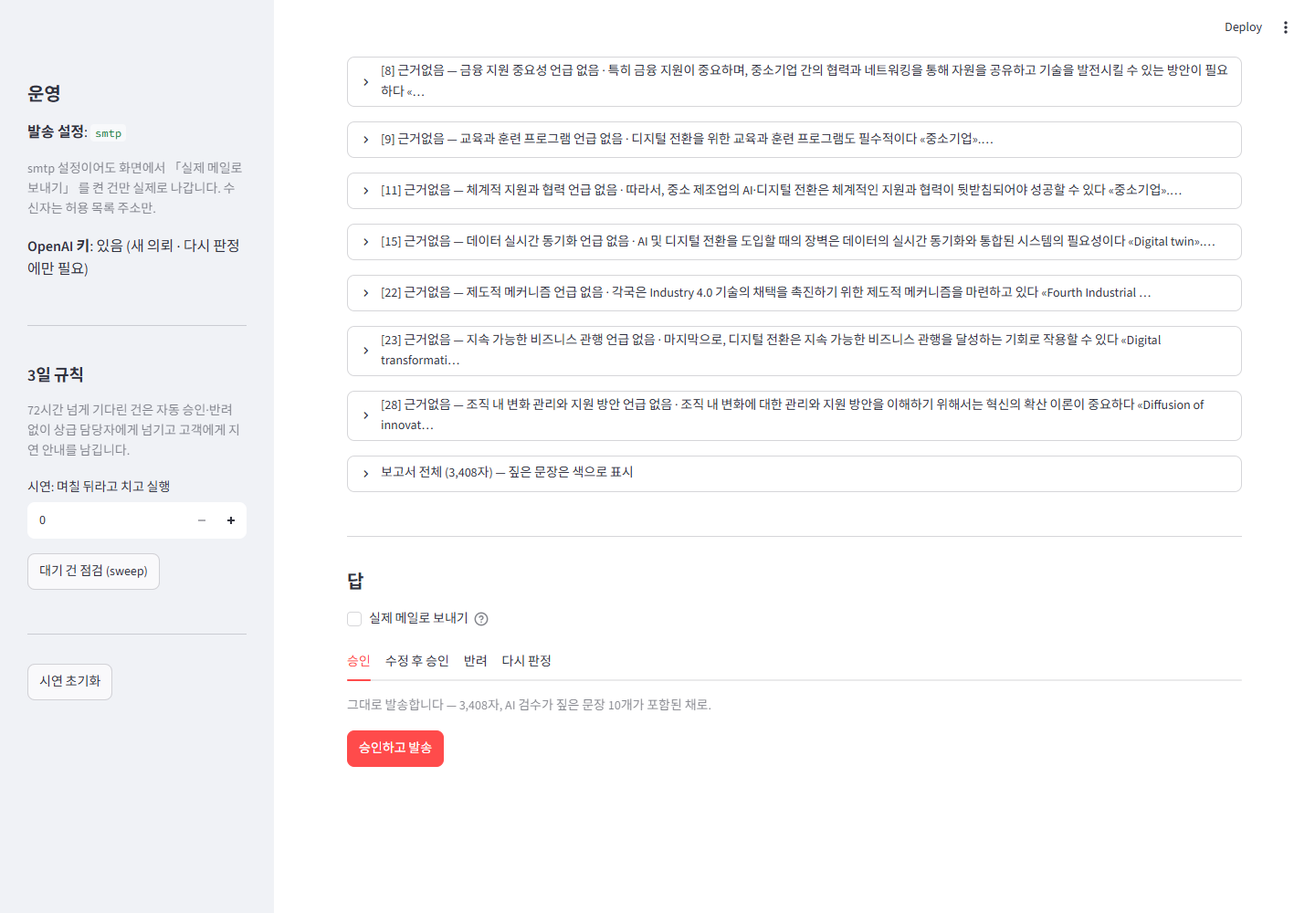
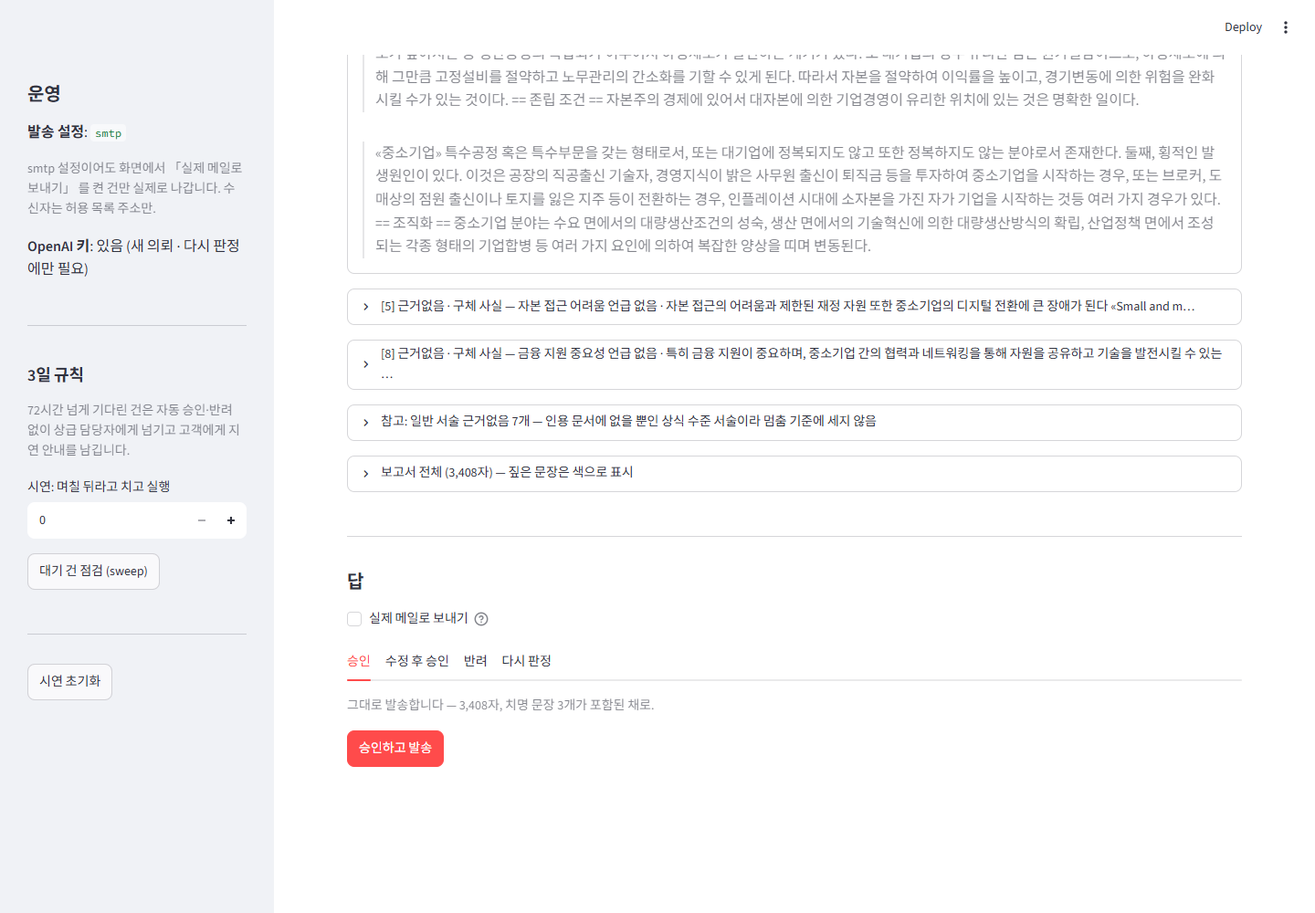
C8 v2: 치명 문장(구체 사실 근거없음·모순·대상착오) ≥ 1 — 개입률 88% → 65%
7단계 운영에서 짚힌 오류의 75% 가 구체 사실 없는 일반 서술이었고 담당자가 그런 건을 그대로 승인했다.
- criteria.치명 · C8 v2, 빼고 발송은 치명 문장만
- 화면: 멈춘 원인(치명) / 참고(일반 서술) 로 나눔, 기준 설명에 v1 → v2
- validate_criteria: v1 · v2 표, 7단계 승인 8건 대조 (docs/evidence/step7_approved.json)
- 캡처 갱신

Changed region(s): [[0.2812, 0.062, 0.9375, 0.279], [0.2812, 0.31, 0.9375, 0.465], [0.375, 0.744, 0.5312, 0.775]]

diff --git a/app.py b/app.py
@@ -25,7 +25,7 @@ st.set_page_config(page_title="보고서 발송 승인", layout="wide")
     "C2": ("인용 원문에 없는 숫자", "틀린 수치가 출처를 달고 고객에게 나가는 것"),
     "C3": ("지표 경보", "지어낸 제목 · 읽지 않은 문서를 인용하는 것"),
     "C6": ("국내 질문에 해외 근거", "해외 기준이 한국 기준처럼 읽히는 것"),
-    "C8": (f"AI 검수 오류 문장 {C.C8_문턱}개 이상", "인용 문서가 뒷받침하지 않는 주장 (가장 흔한 오류)"),
+    "C8": ("AI 검수 치명 문장 1개 이상", "고객이 옮겨 쓸 구체 사실(수치·기준·고유명사)이 근거 없이 · 틀리게 · 다른 대상의 것으로 나가는 것"),
 }
 판정색 = {"근거없음": "orange", "모순": "red", "대상착오": "violet"}
 
@@ -91,7 +91,8 @@ with 탭[0]:
     else:
         rows = [{"의뢰ID": v["의뢰ID"], "고객": v["고객"], "질문": v["질문"][:28] + "…",
                  "멈춘 이유": " · ".join(x.split(" ")[0] for x in v["멈춘 이유"]),
-                 "오류 문장": len(v["검수 오류 문장"]), "대기": _시간(v["대기시작"]),
+                 "치명 문장": sum(1 for x in v["검수 오류 문장"] if C.치명(x)),
+                 "참고": sum(1 for x in v["검수 오류 문장"] if not C.치명(x)), "대기": _시간(v["대기시작"]),
                  "재조사": v["재조사"], "이관": "⚠ 이관" if v["이관"] else ""} for v in 대기]
         st.dataframe(rows, hide_index=True)
         ids = [v["의뢰ID"] for v in 대기]
@@ -111,17 +112,28 @@ with 탭[0]:
         st.markdown("**멈춘 이유** " + "  ".join(f":orange-background[{_안전(x)}]" for x in v["멈춘 이유"]))
         st.info(f"**통과시키면** — {v['통과시키면']}")
 
-        bad = v["검수 오류 문장"]
-        st.markdown(f"##### AI 검수가 짚은 문장 {len(bad)}개")
-        st.caption("문장마다 인용한 원문 대목과 대조한 결과입니다. 대목에 없다고 곧 틀린 것은 아니지만, 고객에게 근거를 댈 수 없는 문장입니다.")
-        for x in bad:
+        bad = [x for x in v["검수 오류 문장"] if C.치명(x)]           # 멈춘 원인 (C8 v2)
+        참고 = [x for x in v["검수 오류 문장"] if not C.치명(x)]       # 구체 사실 없는 일반 서술 — 세지 않는다
+
+        def 문장칸(x):
             col = 판정색.get(x["판정"], "gray")
-            with st.expander(f"[{x['번호']}] {x['판정']} — {x['이유']}  ·  {x['문장'][:70]}…"):
+            with st.expander(f"[{x['번호']}] {x['판정']}{' · 구체 사실' if x.get('구체') else ''} — {x['이유']}  ·  "
+                             f"{x['문장'][:60]}…"):
                 st.markdown(f":{col}-background[{_안전(x['문장'])}]")
                 if not x["대목"]:
                     st.caption("(인용 없음)")
                 for d in x["대목"]:
                     st.markdown(f"> «{d['문서']}» {d['글']}")
+
+        st.markdown(f"##### AI 검수 — 치명 문장 {len(bad)}개")
+        st.caption("고객이 옮겨 쓸 구체 사실(수치·기준·고유명사·연도)이 인용 원문에 없거나, 원문과 다르거나(모순), "
+                   "질문과 다른 대상의 것(대상착오)인 문장. 펼치면 AI 가 대조한 원문 대목이 보입니다.")
+        for x in bad:
+            문장칸(x)
+        if 참고:
+            with st.expander(f"참고: 일반 서술 근거없음 {len(참고)}개 — 인용 문서에 없을 뿐인 상식 수준 서술이라 멈춤 기준에 세지 않음"):
+                for x in 참고:
+                    st.markdown(f"- [{x['번호']}] {_안전(x['문장'])} — :gray[{_안전(x['이유'])}]")
         other = [x for x in v["멈춘 이유"] if not x.startswith("C8")]
         if other:
             hits = C.전부재기(보고서)
@@ -156,13 +168,14 @@ with 탭[0]:
             st.rerun()
 
         with a1:
-            st.caption(f"그대로 발송합니다 — {v['보고서자수']:,}자, AI 검수가 짚은 문장 {len(bad)}개가 포함된 채로.")
+            st.caption(f"그대로 발송합니다 — {v['보고서자수']:,}자, 치명 문장 {len(bad)}개가 포함된 채로.")
             if st.button("승인하고 발송", type="primary", key="ok"):
                 보내기("approve")
         with a2:
-            방식 = st.radio("방식", ["AI 검수가 짚은 문장 빼고 발송", "직접 수정"], horizontal=True)
+            방식 = st.radio("방식", ["AI 검수 치명 문장 빼고 발송", "직접 수정"], horizontal=True)
             if 방식.startswith("AI"):
-                st.caption(f"{len(bad)}문장을 빼고 {len(빠진본):,}자로 발송합니다 (원본 {v['보고서자수']:,}자).")
+                st.caption(f"치명 문장 {len(bad)}개를 빼고 {len(빠진본):,}자로 발송합니다 (원본 {v['보고서자수']:,}자). "
+                           "일반 서술은 남깁니다.")
                 with st.expander("발송본 미리보기"):
                     st.markdown(빠진본)
                 if st.button("빼고 발송", type="primary", key="edit1"):
@@ -286,16 +299,22 @@ with 탭[3]:
     st.table([{"기준": f"{k} {기준설명[k][0]}", "막으려는 위험": 기준설명[k][1]} for k in C.켜진기준])
     st.markdown("""
 - **C2 · C3 · C6** 은 코드로 즉시 계산한다. 걸리면 거의 확실히 진짜 문제다 (4단계 검증에서 헛멈춤 ≈ 0) — 싸고 빠른 1차 관문.
-- **C8** 은 문장마다 인용 원문 대목과 대조하는 AI 검수(gpt-4o)다. 가장 흔한 오류인 '인용한 문서가 그 말을 하지 않는 문장' 은 이렇게 읽어야만 잡힌다.
+- **C8** 은 문장마다 인용 원문 대목과 대조하는 AI 검수(gpt-4o)다. 그중 **치명 문장** — 모순 · 대상착오, 또는 수치·기준·고유명사 같은
+  **구체 사실**의 근거없음 — 이 하나라도 있으면 멈춘다. 구체 사실이 없는 일반 서술의 근거없음은 참고로만 보여 주고 세지 않는다.
 - 검수에 실패하면(키 없음 · 한도 초과) 통과가 아니라 사람에게 보낸다.
 
-**검증 (4단계, 표본 150건 · 사람 판정 30건)**
-- 개입률 **88%** (150건 중 132건 멈춤, 18건 자동 발송) · 사람 판정 기준 놓침 **3/25** · 헛멈춤 3/5
-- C8 문턱은 3. 4 로 올리면 개입률 79% 로 내려가지만 놓침이 4/25 로 는다.
-- 놓침을 막는 쪽을 골랐다. 틀린 보고서가 고객에게 가면 되돌릴 수 없고, 헛멈춤은 검토 시간만 든다.
-- 개입률이 높은 이유는 기준이 아니라 **생성기(딥리서처)** 에 있다 — 판정한 고유 문장 2,801개 중 22.5% 가 근거없음·모순·대상착오였다. 그래서 개입률 대신 **건당 검토 시간**을 줄이는 쪽(짚은 문장부터 보여 주기 · 빼고 발송 버튼)으로 보완했다.
+**기준을 이렇게 고쳐 왔다**
 
-**자동으로 나가는 건은 왜 괜찮은가** — C2 · C3 · C6 에 걸리지 않고 AI 검수 오류 문장이 2개 이하인 보고서다 — 출처와 숫자가 원문과 맞고, 원문과 대조해 근거를 못 댄 문장이 한두 개뿐이다. 사람 판정 30건에서 이 조건을 통과한 건 중 사람이 멈췄어야 한 건은 3건이었다(놓침). 0 은 아니다 — 한계로 REPORT 에 적었다.
+| 판 | C8 | 표본 150건 개입률 | 근거 |
+|---|---|---:|---|
+| v1 | 근거없음·모순·대상착오 전부 ≥ 3 | 88% | 4단계 판정지(AI 검토 참고, 엄격) 기준 놓침 3/25 |
+| **v2 (지금)** | **치명 문장 ≥ 1** | **65%** | 7단계 운영: 짚힌 오류의 75% 가 일반 서술이었고 담당자가 그런 건을 9건 중 8건 그대로 승인 |
 
-자세한 표: `docs/evidence/step4_validation.md`
+- v1 로 운영하니 개입률 88% · 건당 약 4분 → 하루 150건이면 약 8.8시간. 짚힘이 너무 많아 승인이 빨라졌다(뒤 여섯 건은 7~25초) — 학습자료가 경고한 '헛멈춤이 많으면 버튼만 누른다' 를 실제로 겪었다.
+- v2 는 담당자의 운영 판단(일반 서술은 치명적이지 않다)과 결정 A(고객이 옮겨 쓸 사실은 놓치지 않는다)가 함께 성립하는 지점이다. 대가: 4단계의 엄격한 판정 기준으로는 놓침이 10/25 로 는다.
+- 개입률이 여전히 높은 이유는 기준이 아니라 **생성기(딥리서처)** 에 있다 — 판정한 고유 문장 2,801개 중 22.5% 가 근거없음·모순·대상착오였다.
+
+**자동으로 나가는 건은 왜 괜찮은가** — C2 · C3 · C6 에 걸리지 않고, 원문과 대조해 구체 사실이 모두 맞았으며, 근거를 못 댄 것은 일반 서술뿐인 보고서다. 고객이 그 보고서를 보고 옮겨 적을 수치·기준·이름은 모두 원문에 있다.
+
+자세한 표: `docs/evidence/step4_validation.md` · `docs/evidence/step7_results.md`
 """)

diff --git a/validate_criteria.py b/validate_criteria.py
@@ -122,20 +122,38 @@ def main():
     hs = [r for r in rows if r["run_id"] in human]
     code = lambda r: any(C.전부재기(r)[k] for k in ("C2", "C3", "C6"))
     n_stop = sum(human[r["run_id"]]["should_stop"] for r in hs)
-    L += ["", "## 4. C8 (AI 검수) 문턱 — 사람 판정 30건 기준", "",
+    L += ["", "## 4. C8 (AI 검수) — 사람 판정 30건 기준", "",
           f"사람 판정: 멈춤 {n_stop} · 통과 {len(hs) - n_stop}. 정답이 AI 판정이면 C8 이 자기 자신과 비교되므로(순환) "
-          "여기서는 사람 판정만 정답으로 쓴다. 사람 판정은 AI 검토 도구를 참고했다(AI 보조 사람 판정).", "",
-          "| 기준 (C2·C3·C6 과 함께) | 사람 기준 놓침 | 사람 기준 헛멈춤 | 표본 150건 개입률 |", "|---|---:|---:|---:|"]
-    for k in (1, 2, 3, 4, 5, 6, 8, 10):
-        stop = lambda r: code(r) or bool(C.C8_AI검수(r, k))
-        fn = sum(1 for r in hs if human[r["run_id"]]["should_stop"] and not stop(r))
-        fp = sum(1 for r in hs if not human[r["run_id"]]["should_stop"] and stop(r))
-        L.append(f"| C8 오류 ≥ {k}{' ← 채택' if k == C.C8_문턱 else ''} | {fn}/{n_stop} | {fp}/{len(hs) - n_stop} | "
-                 f"{100 * sum(1 for r in rows if stop(r)) / len(rows):.0f}% |")
+          "여기서는 사람 판정만 정답으로 쓴다. 사람 판정은 AI 검토 도구를 참고했다(AI 보조 사람 판정).", ""]
+    import judge as _J
+    승인8 = set(json.loads((J.G.ROOT / "docs" / "evidence" / "step7_approved.json").read_text(encoding="utf-8"))["run_ids"])         if (J.G.ROOT / "docs" / "evidence" / "step7_approved.json").exists() else set()
+
+    def 표(제목, 세기, ks, 채택):
+        out = [f"### {제목}", "", "| C8 (C2·C3·C6 과 함께) | 사람 기준 놓침 | 사람 기준 헛멈춤 | 표본 150건 개입률 | 7단계 그대로 승인한 8건 중 멈춤 |",
+               "|---|---:|---:|---:|---:|"]
+        for k in ks:
+            stop = lambda r: code(r) or r["검수"]["판정실패"] > 0 or 세기(r) >= k
+            fn = sum(1 for r in hs if human[r["run_id"]]["should_stop"] and not stop(r))
+            fp = sum(1 for r in hs if not human[r["run_id"]]["should_stop"] and stop(r))
+            ap = sum(1 for r in rows if r["run_id"] in 승인8 and stop(r))
+            out.append(f"| ≥ {k}{' ← ' + 채택 if 채택 and k == int(채택.split('=')[1]) else ''} | {fn}/{n_stop} | "
+                       f"{fp}/{len(hs) - n_stop} | {100 * sum(1 for r in rows if stop(r)) / len(rows):.0f}% | {ap}/{len(승인8)} |")
+        return out + [""]
+
+    전체 = lambda r: sum(1 for x in r["검수"]["문장"] if x["판정"] in _J.오류판정)
+    치명 = lambda r: sum(1 for x in r["검수"]["문장"] if C.치명(x))
+    L += 표("v1 — 근거없음·모순·대상착오 전부를 센다 (6단계까지)", 전체, (1, 2, 3, 4, 5, 6, 8, 10), "v1 채택 k=3")
+    L += ["7단계에서 v1 으로 운영해 보니 짚힌 오류 645문장 중 486(75%)이 구체 사실 없는 일반 서술의 근거없음이었고, "
+          "담당자는 그런 건을 9건 중 8건 그대로 승인했다('상식 수준에서 크게 벗어나지 않는다'). 그래서 치명 문장만 센다.", ""]
+    L += 표("v2 — 치명 문장만 센다: 모순 · 대상착오 · 구체 사실(수치·기준·고유명사·연도)의 근거없음 (지금)", 치명, (1, 2, 3),
+           "v2 채택 k=1")
     fin = [r for r in rows if C.판정(r)]
-    L += ["", f"**최종 기준 {' · '.join(C.켜진기준)}** — 표본 150건 중 {len(fin)}건 멈춤 (개입률 {100*len(fin)/len(rows):.0f}%), "
-          f"자동 발송 {len(rows) - len(fin)}건.", "",
-          "- 놓침을 막는 쪽을 골랐다(4단계 결정 A): 틀린 보고서가 고객에게 가면 되돌릴 수 없고, 헛멈춤은 검토 시간만 든다.",
+    L += [f"**최종 기준 {' · '.join(C.켜진기준)} (C8 v2, 치명 ≥ {C.C8_문턱})** — 표본 150건 중 {len(fin)}건 멈춤 "
+          f"(개입률 {100*len(fin)/len(rows):.0f}%), 자동 발송 {len(rows) - len(fin)}건.", "",
+          "- 놓침을 막는 쪽을 골랐다(4단계 결정 A): 틀린 보고서가 고객에게 가면 되돌릴 수 없고, 헛멈춤은 검토 시간만 든다. "
+          "v2 에서도 '고객이 옮겨 쓸 구체 사실' 은 하나라도 근거가 없으면 멈춘다.",
+          "- 대가: 4단계 판정지(AI 검토 참고, 표현 문제까지 지적한 엄격한 판정) 기준으로는 놓침이 3 → 10/25 로 는다. "
+          "두 번의 사람 판단(엄격한 판정지 대 운영 중 상식 판단)이 달랐고, 운영 쪽을 따랐다.",
           "- 사람 판정 🔴(중요 수정) 문장 75개 중 AI 검수가 잡은 것은 22개(29%) — AI 검수는 '인용 원문에 있는가' 를 보고, "
           "사람(과 참고한 AI 검토)은 배경지식으로 사실 자체를 봤다. 기준이 못 잡는 오류가 남는다는 뜻이다.", ""]
 

diff --git a/criteria.py b/criteria.py
@@ -127,18 +127,26 @@ def C7_고위험주제(rec: dict) -> list[str]:
     return [w for w in 고위험어 if w in 글]
 
 
-# C8 문턱. 4단계에서 4 로 정했다가, 6단계에서 절 이름표 줄을 검수에서 빼고 다시 재니 k=4 의 놓침이 2→4/25 로 늘어
-# 결정 A(놓침을 막는다)의 취지대로 3 으로 낮췄다 (docs/evidence/step4_validation.md 4절).
-C8_문턱 = 3
+def 치명(s: dict) -> bool:
+    """AI 검수 판정 한 문장이 멈출 만한가 (C8 v2): 모순 · 대상착오, 또는 고객이 옮겨 쓸 구체 사실(수치·기준·고유명사·연도)의 근거없음.
+    구체 사실이 없는 일반 서술의 근거없음은 세지 않는다 — 인용 문서에 없을 뿐 상식 수준의 서술이라 치명적이지 않다."""
+    return s.get("판정") in ("모순", "대상착오") or (s.get("판정") == "근거없음" and bool(s.get("구체")))
+
+
+# C8 의 역사 — 문턱을 이렇게 바꿔 왔다 (docs/evidence/step4_validation.md · step7_results.md)
+#   v1(4단계): 근거없음·모순·대상착오 전부 ≥ 4 → 6단계에서 절 이름표 줄을 빼고 다시 재니 놓침이 늘어 ≥ 3 으로.
+#   v2(7단계 뒤): 운영해 보니 짚힌 오류의 75% 가 구체 사실 없는 일반 서술이었고, 담당자가 그런 건을 그대로 승인했다
+#       (9건 중 8건). 일반 서술은 빼고 '치명' 문장만 세어 ≥ 1 — 개입률 88% → 65%.
+C8_문턱 = 1
 
 
 def C8_AI검수(rec: dict, k: int = C8_문턱) -> list[str]:
-    """AI 검수(judge.검수 — 문장마다 인용 원문 대목과 대조, gpt-4o)에서 근거없음·모순·대상착오 문장이 k개 이상.
+    """AI 검수(judge.검수 — 문장마다 인용 원문 대목과 대조, gpt-4o)에서 치명 문장(위 치명())이 k개 이상.
     검수 결과가 없는 기록(검수 전)은 계산하지 않는다. 검수에 실패한 문장이 있으면 확인할 수 없으니 멈춘다."""
     g = rec.get("검수")
     if not g:
         return []
-    bad = [f"[{s['번호']}] {s['판정']} — {s['이유']}" for s in g["문장"] if s["판정"] in ("근거없음", "모순", "대상착오")]
+    bad = [f"[{s['번호']}] {s['판정']} — {s['이유']}" for s in g["문장"] if 치명(s)]
     fail = [f"AI 검수 실패 문장 {g['판정실패']}개 — 확인할 수 없어 사람에게"] if g["판정실패"] else []
     return fail + bad if (fail or len(bad) >= k) else []
 
@@ -151,7 +159,7 @@ def C8_AI검수(rec: dict, k: int = C8_문턱) -> list[str]:
     "C5": ("부족한 절 남음", C5_부족한절남음),
     "C6": ("국내 질문에 해외 근거", C6_국내질문_해외근거),
     "C7": ("고위험 주제어", C7_고위험주제),
-    "C8": (f"AI 검수 오류 문장 {C8_문턱}개 이상", C8_AI검수),
+    "C8": ("AI 검수 치명 문장 (구체 사실 근거없음·모순·대상착오)", C8_AI검수),
 }
 
 # 4단계에서 확정 (docs/evidence/step4_validation.md). 놓침을 막는 쪽(A)을 골랐다 —
@@ -173,7 +181,8 @@ def 판정(rec: dict, 켜진: list[str] | None = None) -> list[str]:
             continue
         if k == "C8":
             g = rec["검수"]
-            이유.append(f"C8 AI 검수 — 오류 문장 {g['오류수']}개" + (f" · 검수 실패 {g['판정실패']}개" if g["판정실패"] else ""))
+            n = sum(1 for s in g["문장"] if 치명(s))
+            이유.append(f"C8 AI 검수 — 치명 문장 {n}개" + (f" · 검수 실패 {g['판정실패']}개" if g["판정실패"] else ""))
         else:
             이유.append(f"{k} {이름} — {len(hits)}건")
     return 이유

diff --git a/hitl.py b/hitl.py
@@ -181,9 +181,9 @@ def 빼기(report: str, 문장들: list[str]) -> str:
 def 수정반영(s: State) -> dict:
     r, 답 = s["보고서"], s["답"]
     if 답.get("방식") == "오류문장빼기":
-        뺄 = [x["문장"] for x in r.get("검수", {}).get("문장", []) if x["판정"] in judge.오류판정]
+        뺄 = [x["문장"] for x in r.get("검수", {}).get("문장", []) if criteria.치명(x)]     # 일반 서술은 남긴다 (C8 v2)
         본 = 빼기(r["report"], 뺄)
-        기록 = {"방식": "AI 검수 오류 문장 빼기", "뺀문장": len(뺄)}
+        기록 = {"방식": "AI 검수 치명 문장 빼기", "뺀문장": len(뺄)}
     else:
         본 = 답["수정본"]
         기록 = {"방식": "직접 수정"}

diff --git a/scripts/screenshots.py b/scripts/screenshots.py
@@ -25,10 +25,11 @@ def main():
         page = browser.new_page(viewport={"width": 1440, "height": 1000}, device_scale_factor=1)
         page.goto(URL)
         page.wait_for_selector("text=SME 리서치 보고서", timeout=30000)
-        page.wait_for_timeout(3000)
+        page.wait_for_selector("[data-testid=stDataFrame]", timeout=60000)
+        page.wait_for_timeout(6000)
 
         def 찍기(name, full=False):
-            page.wait_for_timeout(1500)
+            page.wait_for_timeout(2500)
             page.screenshot(path=str(OUT / f"{name}.png"), full_page=full)
             print("저장", OUT / f"{name}.png")
 

diff --git a/docs/evidence/step4_validation.md b/docs/evidence/step4_validation.md
@@ -59,42 +59,84 @@
 
 ## 3. 기준 전부를 켜도 놓치는 건
 
-- **S1 · 역할끔 · 20260923-151332-abcc**
-  - 근거없음 (OEE 요소 정의 없음) — 가용성은 실제 가동 시간과 계획된 가동 시간의 비율로 정의되며, 성능은 실제 생산량과 최대 생산량의 비율로, 품질은 생산된 제품 중 결함이 없는 제품의 비율로 정의된다 «Lean 
-  - 근거없음 (OEE의 중요성 관련 내용 없음) — OEE는 제조업체가 장비의 성능을 최적화하고 경쟁력을 유지하는 데 필수적인 도구입니다.
+- **S2 · 구역끔 · 20260923-151534-b645**
+  - 근거없음 (대목에 다양한 요인 설명 언급 없음.) — 이러한 모델들은 기술 수용에 대한 다양한 요인들을 설명하는 데 도움을 준다 «Technology acceptance model».
+  - 근거없음 (여러 요인 분석 언급 없음.) — 이 모델은 사용자가 기술을 수용하는 데 영향을 미치는 여러 요인들을 분석한다 «Diffusion of innovations».
+- **S2 · 역할끔 · 20260923-151547-db4c**
+  - 근거없음 (대목에 다양한 요인 설명 언급 없음.) — 이러한 모델들은 기술 수용에 대한 다양한 요인들을 설명하는 데 도움을 준다 «Technology acceptance model».
+  - 근거없음 (혁신과 채택자 특성 결합 언급 없음.) — 혁신의 특성과 채택자의 특성이 결합되어 채택 가능성을 높이는 데 중요한 역할을 한다 «Diffusion of innovations».
+- **M2 · 배정끔 · 20260923-152303-5348**
+  - 근거없음 (고장 줄이기 언급 없음) — OEE(Overall Equipment Effectiveness)는 설비의 효율성을 높이고 고장을 줄이기 위해 측정하는 것이 중요하다 «Overall equipment effect
+  - 근거없음 (구현에 필요한 구체적 단계 없음) — 이 기술을 구현하기 위해서는 데이터 수집 및 전처리, 조기 결함 탐지, 결함 탐지, 고장 시간 예측, 유지보수 일정 및 자원 최적화가 필요하다 «Predictive maintena
+- **M2 · 구역끔 · 20260923-152324-aefe**
+  - 근거없음 (IoT가 고장 감지 데이터 수집 기술이라는 내용 없음) — 사물인터넷(IoT)은 기계의 상태를 모니터링하여 고장을 사전에 감지하는 데 필요한 데이터를 수집할 수 있는 기술이다 «사물인터넷».
+  - 근거없음 (IoT로 고장 줄이는 내용 없음) — 따라서 사물인터넷 기술을 통해 기계의 상태를 지속적으로 모니터링하고 고장을 줄이는 것이 가능하다 «사물인터넷».
 - **M3 · 배정끔 · 20260923-152600-5164**
   - 근거없음 (대목에 해당 내용 없음) — 품질 관리는 조직, 제품 또는 서비스가 일관되게 의도한 대로 수행되도록 보장하는 시스템이다 «Quality management».
-- **M3 · 구역끔 · 20260923-152628-eddf**
-  - 근거없음 (ISO 9001:2015의 7가지 원칙이 대목에 없다.) — ISO 9001:2015는 품질 관리를 위한 국제 표준으로, 고객 중심, 리더십, 사람의 참여, 프로세스 접근, 지속적인 개선, 증거 기반 의사결정, 관계 관리의 7가지 원칙을 채
-- **M3 · 역할끔 · 20260923-152655-4a4f**
-  - 근거없음 (인용 대목에 일관성 보장 설명 없음.) — 품질 관리는 조직, 제품 또는 서비스가 의도한 대로 일관되게 수행되도록 보장하는 시스템이다 «Quality management».
-  - 근거없음 (원칙 목록이 대목에 없음.) — 품질 관리의 원칙으로는 고객 중심, 리더십, 사람의 참여, 프로세스 접근, 지속적인 개선, 증거 기반 의사 결정, 관계 관리가 있다 «Quality management».
-- **M3 · 역할끔 · 20260923-152701-8449**
-  - 근거없음 (ISO 9001:2015의 7가지 원칙 언급 없음.) — ISO 9001:2015는 품질 관리를 위한 국제 표준으로, 고객 중심, 리더십, 사람의 참여, 프로세스 접근, 지속적인 개선, 증거 기반 의사 결정, 관계 관리의 7가지 원칙을 
 - **M3 · 재위임끔 · 20260923-152716-f2e3**
-- **M4 · 혼자(나) · 20260923-153141-4b57**
-  - 근거없음 (실시간 데이터와 협업 언급 없음) — 물류·유통 기업은 공급망 관리 시스템(SCM)을 사용하여 운송과 재고를 관리하며, 이는 실시간 데이터와 협업을 기반으로 한다 «Supply chain management».
-  - 근거없음 (클라우드 컴퓨팅과 엣지 컴퓨팅 언급 없음) — 이러한 시스템은 클라우드 컴퓨팅과 엣지 컴퓨팅을 통해 데이터 처리를 최적화하고, 예측 유지보수와 같은 응용 프로그램을 통해 운영 효율성을 높인다 «Industrial interne
+- **M4 · 기본 · 20260923-152838-5d69**
+  - 근거없음 (재고 관리의 목표가 대목에 없음) — 재고 관리는 고객 서비스 향상과 물류 비용 절감을 목표로 하며, 이는 물류의 중요한 기능 중 하나이다 «Logistics».
+  - 근거없음 (화물 운송의 시장 접근성 관련 내용이 대목에 없음) — 화물 운송은 광범위한 시장 접근을 가능하게 하여 물류의 효율성을 높인다 «Logistics».
+- **M4 · 기본 · 20260923-152840-945e**
+  - 근거없음 (재고 관리의 목표에 대한 직접적 언급 없음) — 재고 관리는 고객 서비스 향상과 물류 비용 절감을 목표로 하며, 이는 물류 활동의 중요한 부분이다 «Logistics».
+  - 근거없음 (화물 운송의 시장 접근성 언급 없음) — 화물 운송은 광범위한 시장 접근을 가능하게 하여 물류의 중요한 기능 중 하나로 자리잡고 있다 «Logistics».
+- **M4 · 구역끔 · 20260923-152928-17b1**
+  - 근거없음 (시장 접근 관련 내용 없음) — 화물 운송은 광범위한 시장 접근을 가능하게 한다 «Logistics».
+  - 근거없음 (운송과 재고 관리 중요성 언급 없음) — 물류·유통 기업의 운송과 재고 관리는 공급망 관리의 중요한 요소이다 «Supply chain management».
+- **M4 · 구역끔 · 20260923-152934-f394**
+  - 근거없음 (재고 관리 목표에 대한 구체적 설명이 없다.) — 재고 관리는 전체 물류 비용을 줄이고 고객 서비스 개선을 목표로 하며, 이는 물류의 중요한 기능 중 하나이다 «Logistics».
+  - 근거없음 (화물 운송의 시장 접근성 관련 내용이 대목에 없음) — 화물 운송은 광범위한 시장 접근을 가능하게 하여 물류의 효율성을 높인다 «Logistics».
 - **M5 · 혼자(나) · 20260923-153455-bae3**
   - 근거없음 (변화 관리 관점 언급 없음) — 사무·관리 업무를 자동화하는 수단의 적용 범위와 한계는 변화 관리의 관점에서 다르게 나타난다 «Change management».
+- **T3 · 구역끔 · 20260923-154224-03c2**
+  - 근거없음 (경쟁력 유지 언급 없음) — 이러한 과정은 시장에서의 경쟁력을 유지하기 위해 필수적이다 «Innovation».
+  - 근거없음 (혁신의 확산 이론과 변화 관리의 연결이 없다.) — 조직 내 변화 관리의 접근 방식은 혁신의 확산 이론에 기반하여 설명될 수 있다 «Diffusion of innovations».
+- **T3 · 역할끔 · 20260923-154327-c526**
+  - 근거없음 (대목에 관련 내용 없음) — 기술 확산 이론은 새로운 기술이 어떻게 채택되고 확산되는지를 설명하며, 초기 수용자와 후속 수용자 간의 상호작용을 강조한다 «Emerging technologies».
+  - 근거없음 (개인 특성 등 언급 없음) — 기술의 수용은 개인의 특성, 사회적 영향, 그리고 기술의 특성에 따라 달라진다 «Emerging technologies».
+- **S1 · 재위임끔 · 20260923-161139-b781**
+  - 근거없음 (대목에 가용성과 성능 정의 없음.) — 가용성은 실제 가동 시간과 계획된 가동 시간의 비율을 나타내며, 성능은 실제 생산량과 최대 생산량의 비율을 의미한다 «Lean manufacturing».
+  - 근거없음 (대목에 품질 정의 없음.) — 품질은 생산된 제품 중 결함이 없는 제품의 비율로 정의된다 «Lean manufacturing».
+- **M4 · 기본 · 20260923-161607-6b43**
+  - 근거없음 (재고 관리의 목표 언급 없음.) — 재고 관리는 전체 물류 비용을 줄이고 고객 서비스 개선을 목표로 한다 «Logistics».
+  - 근거없음 (시장 접근 관련 내용 없음) — 화물 운송은 광범위한 시장 접근을 가능하게 한다 «Logistics».
+- **M4 · 재위임끔 · 20260923-161653-33c5**
+  - 근거없음 (고객 요구 대응 언급 없음) — 효과적인 SCM은 고객 요구에 신속하게 대응하고, 재고 수준을 적절히 유지하여 운영 효율성을 높인다 «Supply chain management».
+  - 근거없음 (신기술 도입 관련 없음) — 디지털 수단을 통한 기업의 변화는 주로 신기술의 도입과 관련이 있다 «Emerging technologies».
+- **T1 · 재위임끔 · 20260923-161832-2950**
+  - 근거없음 (기계 학습으로 이상 징후 발견 언급 없음) — 예를 들어, 기계 학습을 통해 장비의 이상 징후를 조기에 발견하고, 예측 정비를 통해 유지보수 비용을 절감할 수 있다 «Artificial intelligence in indust
+  - 근거없음 (예측 및 분류 작업 언급 없음) — 기계 학습(ML)은 예지 정비의 예측 및 분류 작업에 중요한 역할을 한다 «기계 학습».
 
-## 4. C8 (AI 검수) 문턱 — 사람 판정 30건 기준
+## 4. C8 (AI 검수) — 사람 판정 30건 기준
 
 사람 판정: 멈춤 25 · 통과 5. 정답이 AI 판정이면 C8 이 자기 자신과 비교되므로(순환) 여기서는 사람 판정만 정답으로 쓴다. 사람 판정은 AI 검토 도구를 참고했다(AI 보조 사람 판정).
 
-| 기준 (C2·C3·C6 과 함께) | 사람 기준 놓침 | 사람 기준 헛멈춤 | 표본 150건 개입률 |
-|---|---:|---:|---:|
-| C8 오류 ≥ 1 | 1/25 | 4/5 | 97% |
-| C8 오류 ≥ 2 | 3/25 | 4/5 | 91% |
-| C8 오류 ≥ 3 ← 채택 | 3/25 | 3/5 | 88% |
-| C8 오류 ≥ 4 | 4/25 | 2/5 | 79% |
-| C8 오류 ≥ 5 | 9/25 | 2/5 | 63% |
-| C8 오류 ≥ 6 | 13/25 | 2/5 | 55% |
-| C8 오류 ≥ 8 | 19/25 | 1/5 | 37% |
-| C8 오류 ≥ 10 | 23/25 | 0/5 | 21% |
+### v1 — 근거없음·모순·대상착오 전부를 센다 (6단계까지)
 
-**최종 기준 C2 · C3 · C6 · C8** — 표본 150건 중 132건 멈춤 (개입률 88%), 자동 발송 18건.
+| C8 (C2·C3·C6 과 함께) | 사람 기준 놓침 | 사람 기준 헛멈춤 | 표본 150건 개입률 | 7단계 그대로 승인한 8건 중 멈춤 |
+|---|---:|---:|---:|---:|
+| ≥ 1 | 1/25 | 4/5 | 97% | 8/8 |
+| ≥ 2 | 3/25 | 4/5 | 91% | 8/8 |
+| ≥ 3 ← v1 채택 k=3 | 3/25 | 3/5 | 88% | 8/8 |
+| ≥ 4 | 4/25 | 2/5 | 79% | 7/8 |
+| ≥ 5 | 9/25 | 2/5 | 63% | 6/8 |
+| ≥ 6 | 13/25 | 2/5 | 55% | 6/8 |
+| ≥ 8 | 19/25 | 1/5 | 37% | 4/8 |
+| ≥ 10 | 23/25 | 0/5 | 21% | 3/8 |
 
-- 놓침을 막는 쪽을 골랐다(4단계 결정 A): 틀린 보고서가 고객에게 가면 되돌릴 수 없고, 헛멈춤은 검토 시간만 든다.
+7단계에서 v1 으로 운영해 보니 짚힌 오류 645문장 중 486(75%)이 구체 사실 없는 일반 서술의 근거없음이었고, 담당자는 그런 건을 9건 중 8건 그대로 승인했다('상식 수준에서 크게 벗어나지 않는다'). 그래서 치명 문장만 센다.
+
+### v2 — 치명 문장만 센다: 모순 · 대상착오 · 구체 사실(수치·기준·고유명사·연도)의 근거없음 (지금)
+
+| C8 (C2·C3·C6 과 함께) | 사람 기준 놓침 | 사람 기준 헛멈춤 | 표본 150건 개입률 | 7단계 그대로 승인한 8건 중 멈춤 |
+|---|---:|---:|---:|---:|
+| ≥ 1 ← v2 채택 k=1 | 10/25 | 2/5 | 65% | 6/8 |
+| ≥ 2 | 18/25 | 2/5 | 39% | 2/8 |
+| ≥ 3 | 22/25 | 1/5 | 26% | 2/8 |
+
+**최종 기준 C2 · C3 · C6 · C8 (C8 v2, 치명 ≥ 1)** — 표본 150건 중 98건 멈춤 (개입률 65%), 자동 발송 52건.
+
+- 놓침을 막는 쪽을 골랐다(4단계 결정 A): 틀린 보고서가 고객에게 가면 되돌릴 수 없고, 헛멈춤은 검토 시간만 든다. v2 에서도 '고객이 옮겨 쓸 구체 사실' 은 하나라도 근거가 없으면 멈춘다.
+- 대가: 4단계 판정지(AI 검토 참고, 표현 문제까지 지적한 엄격한 판정) 기준으로는 놓침이 3 → 10/25 로 는다. 두 번의 사람 판단(엄격한 판정지 대 운영 중 상식 판단)이 달랐고, 운영 쪽을 따랐다.
 - 사람 판정 🔴(중요 수정) 문장 75개 중 AI 검수가 잡은 것은 22개(29%) — AI 검수는 '인용 원문에 있는가' 를 보고, 사람(과 참고한 AI 검토)은 배경지식으로 사실 자체를 봤다. 기준이 못 잡는 오류가 남는다는 뜻이다.
 
